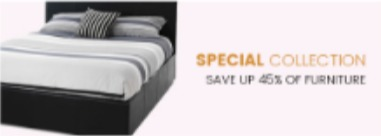
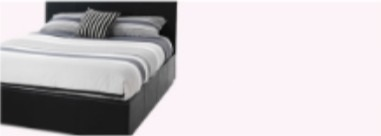
Correct last wrapper

Changed region(s): [[0.4908, 0.3824, 0.9816, 0.5], [0.5197, 0.5294, 0.9816, 0.6471]]

diff --git a/src/components/layout/Deals/Deals.module.scss b/src/components/layout/Deals/Deals.module.scss
@@ -54,7 +54,7 @@
     width: 550px;
     align-items: center;
 
-    .priceSubtitle {
+    .priceTitleTwo {
       position: absolute;
       margin-left: 160px;
       font-size: 55px;
@@ -72,6 +72,35 @@
         letter-spacing: 3px;
         font-size: 18px;
         font-weight: 600;
+      }
+
+      p {
+        font-size: 30px;
+        color: $color-tigersEye;
+      }
+    }
+
+    .priceTitleThree {
+      position: absolute;
+      margin-left: 270px;
+      top: 90px;
+      font-size: 55px;
+      color: $color-tigersEye;
+      font-weight: 600;
+      text-align: right;
+      h4 {
+        margin-bottom: -3px;
+        font-weight: 200;
+        span {
+          padding-right: 9px;
+          font-weight: 800;
+        }
+      }
+      h5 {
+        margin-top: 5px;
+        color: black;
+        font-size: 16px;
+        font-weight: 500;
       }
 
       p {

diff --git a/src/components/layout/Deals/Deals.js b/src/components/layout/Deals/Deals.js
@@ -25,7 +25,7 @@ const Deals = () => (
         <div className={`col-6 ${styles.wrapperLarge}`}>
           <div className={`row pb-4 ${styles.wrapperSmall}`}>
             <img src={Chair} className={styles.imgChair} alt='Bed' />
-            <div className={styles.priceSubtitle}>
+            <div className={styles.priceTitleTwo}>
               <h4>
                 <span>OFFICE</span>CHAIR
               </h4>
@@ -35,6 +35,12 @@ const Deals = () => (
           </div>
           <div className={`row ${styles.wrapperSmall}`}>
             <img src={Bed} className={styles.imgBed} alt='Chair' />
+            <div className={styles.priceTitleThree}>
+              <h4>
+                <span>SPECIAL</span>COLLECTION
+              </h4>
+              <h5>SAVE UP 45% OF FURNITURE</h5>
+            </div>
           </div>
         </div>
       </div>
